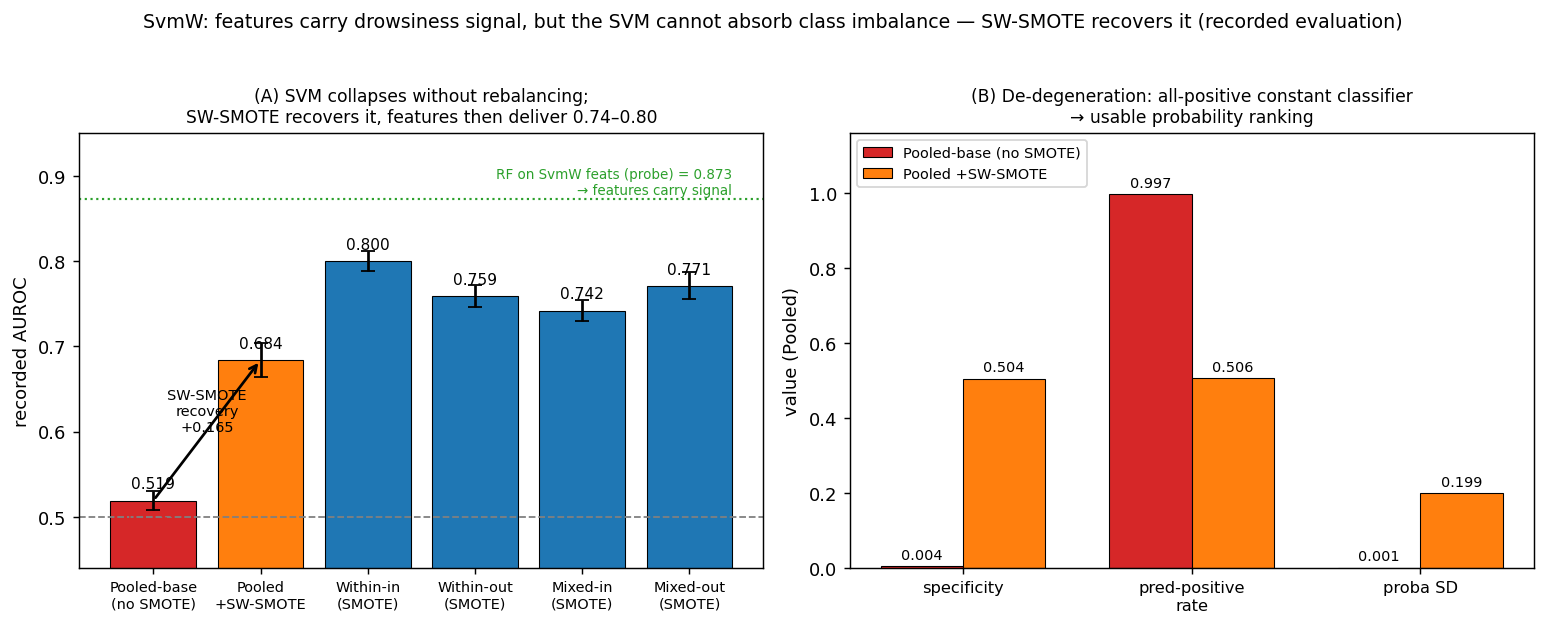
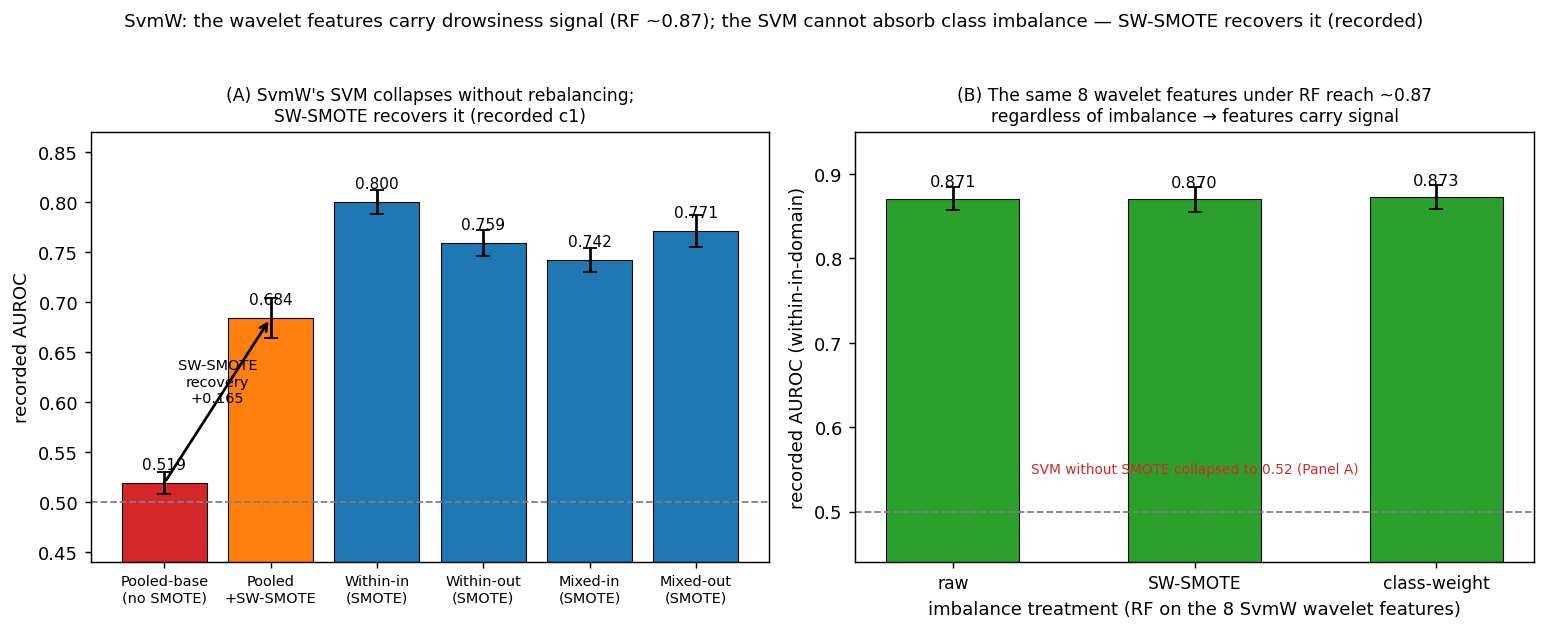
docs(exp3): fig7 panel B -> RF on SvmW wavelet features (replaces de-degeneration panel)
Panel B now shows RF applied to the same 8 steering-wheel wavelet features
under raw / SW-SMOTE / class-weight, all ~0.87 (0.871/0.870/0.873) — a robust
learner reads the recorded signal without rebalancing, confirming SvmW's Pooled
collapse is a learner-imbalance interaction, not a feature deficit. The
de-degeneration metrics remain tabulated in the D5 text. Removes the redundant
RF dotted reference line from panel A.

diff --git a/docs/experiments/results/exp3-analysis/c1_recorded_value_analysis.md b/docs/experiments/results/exp3-analysis/c1_recorded_value_analysis.md
@@ -246,19 +246,22 @@ modes (A).
 | +SW-SMOTE | 0.684 | 0.504 | 0.506 | 0.199 |
 
 **The features carry the signal.** The failure is the SVM's, not the feature set's: feeding SvmW's
-8 steering-wheel wavelet features to RF (recorded-style, within-in) gives 0.873, and once imbalance
-is handled the SVM itself reaches 0.74–0.80. SvmW's low Pooled score is therefore a *recoverable*
-decision-function degeneracy under imbalance — the mirror image of SvmA, whose low score is a
-learner ceiling that rebalancing does not lift (D4).
+8 steering-wheel wavelet features to RF (recorded-style, within-in) gives ~0.87 under *every*
+imbalance treatment — raw 0.871, SW-SMOTE 0.870, class-weight 0.873 (Fig 7B) — so a robust learner
+reads the recorded signal from them without any rebalancing, and once imbalance is handled the SVM
+itself reaches 0.74–0.80. SvmW's low Pooled score is therefore a *recoverable* decision-function
+degeneracy under imbalance — the mirror image of SvmA, whose low score is a learner ceiling that
+rebalancing does not lift (D4).
 
 ![SvmW imbalance collapse and SW-SMOTE recovery](figures/c1_recorded/fig7_svmw_imbalance_recovery.png)
 
 *Figure 7. (A) Recorded SvmW AUROC by regime: Pooled-base collapses to ~0.52 (all-positive),
-SW-SMOTE recovers it to 0.684, and with SW-SMOTE the Within/Mixed modes reach 0.74–0.80; the RF
-probe on the same 8 wavelet features (0.873, dotted) confirms the features carry recorded signal.
-(B) De-degeneration under SW-SMOTE (Pooled): specificity 0.004→0.504, predicted-positive rate
-0.997→0.506, probability SD 0.001→0.199 — an all-positive constant classifier becomes a usable
-ranking.*
+SW-SMOTE recovers it to 0.684, and with SW-SMOTE the Within/Mixed modes reach 0.74–0.80. (B) The
+same 8 steering-wheel wavelet features fed to RF reach ~0.87 under every imbalance treatment (raw
+0.871, SW-SMOTE 0.870, class-weight 0.873) — a robust learner reads the recorded signal without
+rebalancing, so SvmW's collapse is a learner–imbalance interaction, not a feature deficit. (The
+de-degeneration metrics — specificity 0.004→0.504, predicted-positive rate 0.997→0.506, probability
+SD 0.001→0.199 — are tabulated above.)*
 
 ### D6. Lstm: insensitive to imbalance, governed by the evaluation regime
 
